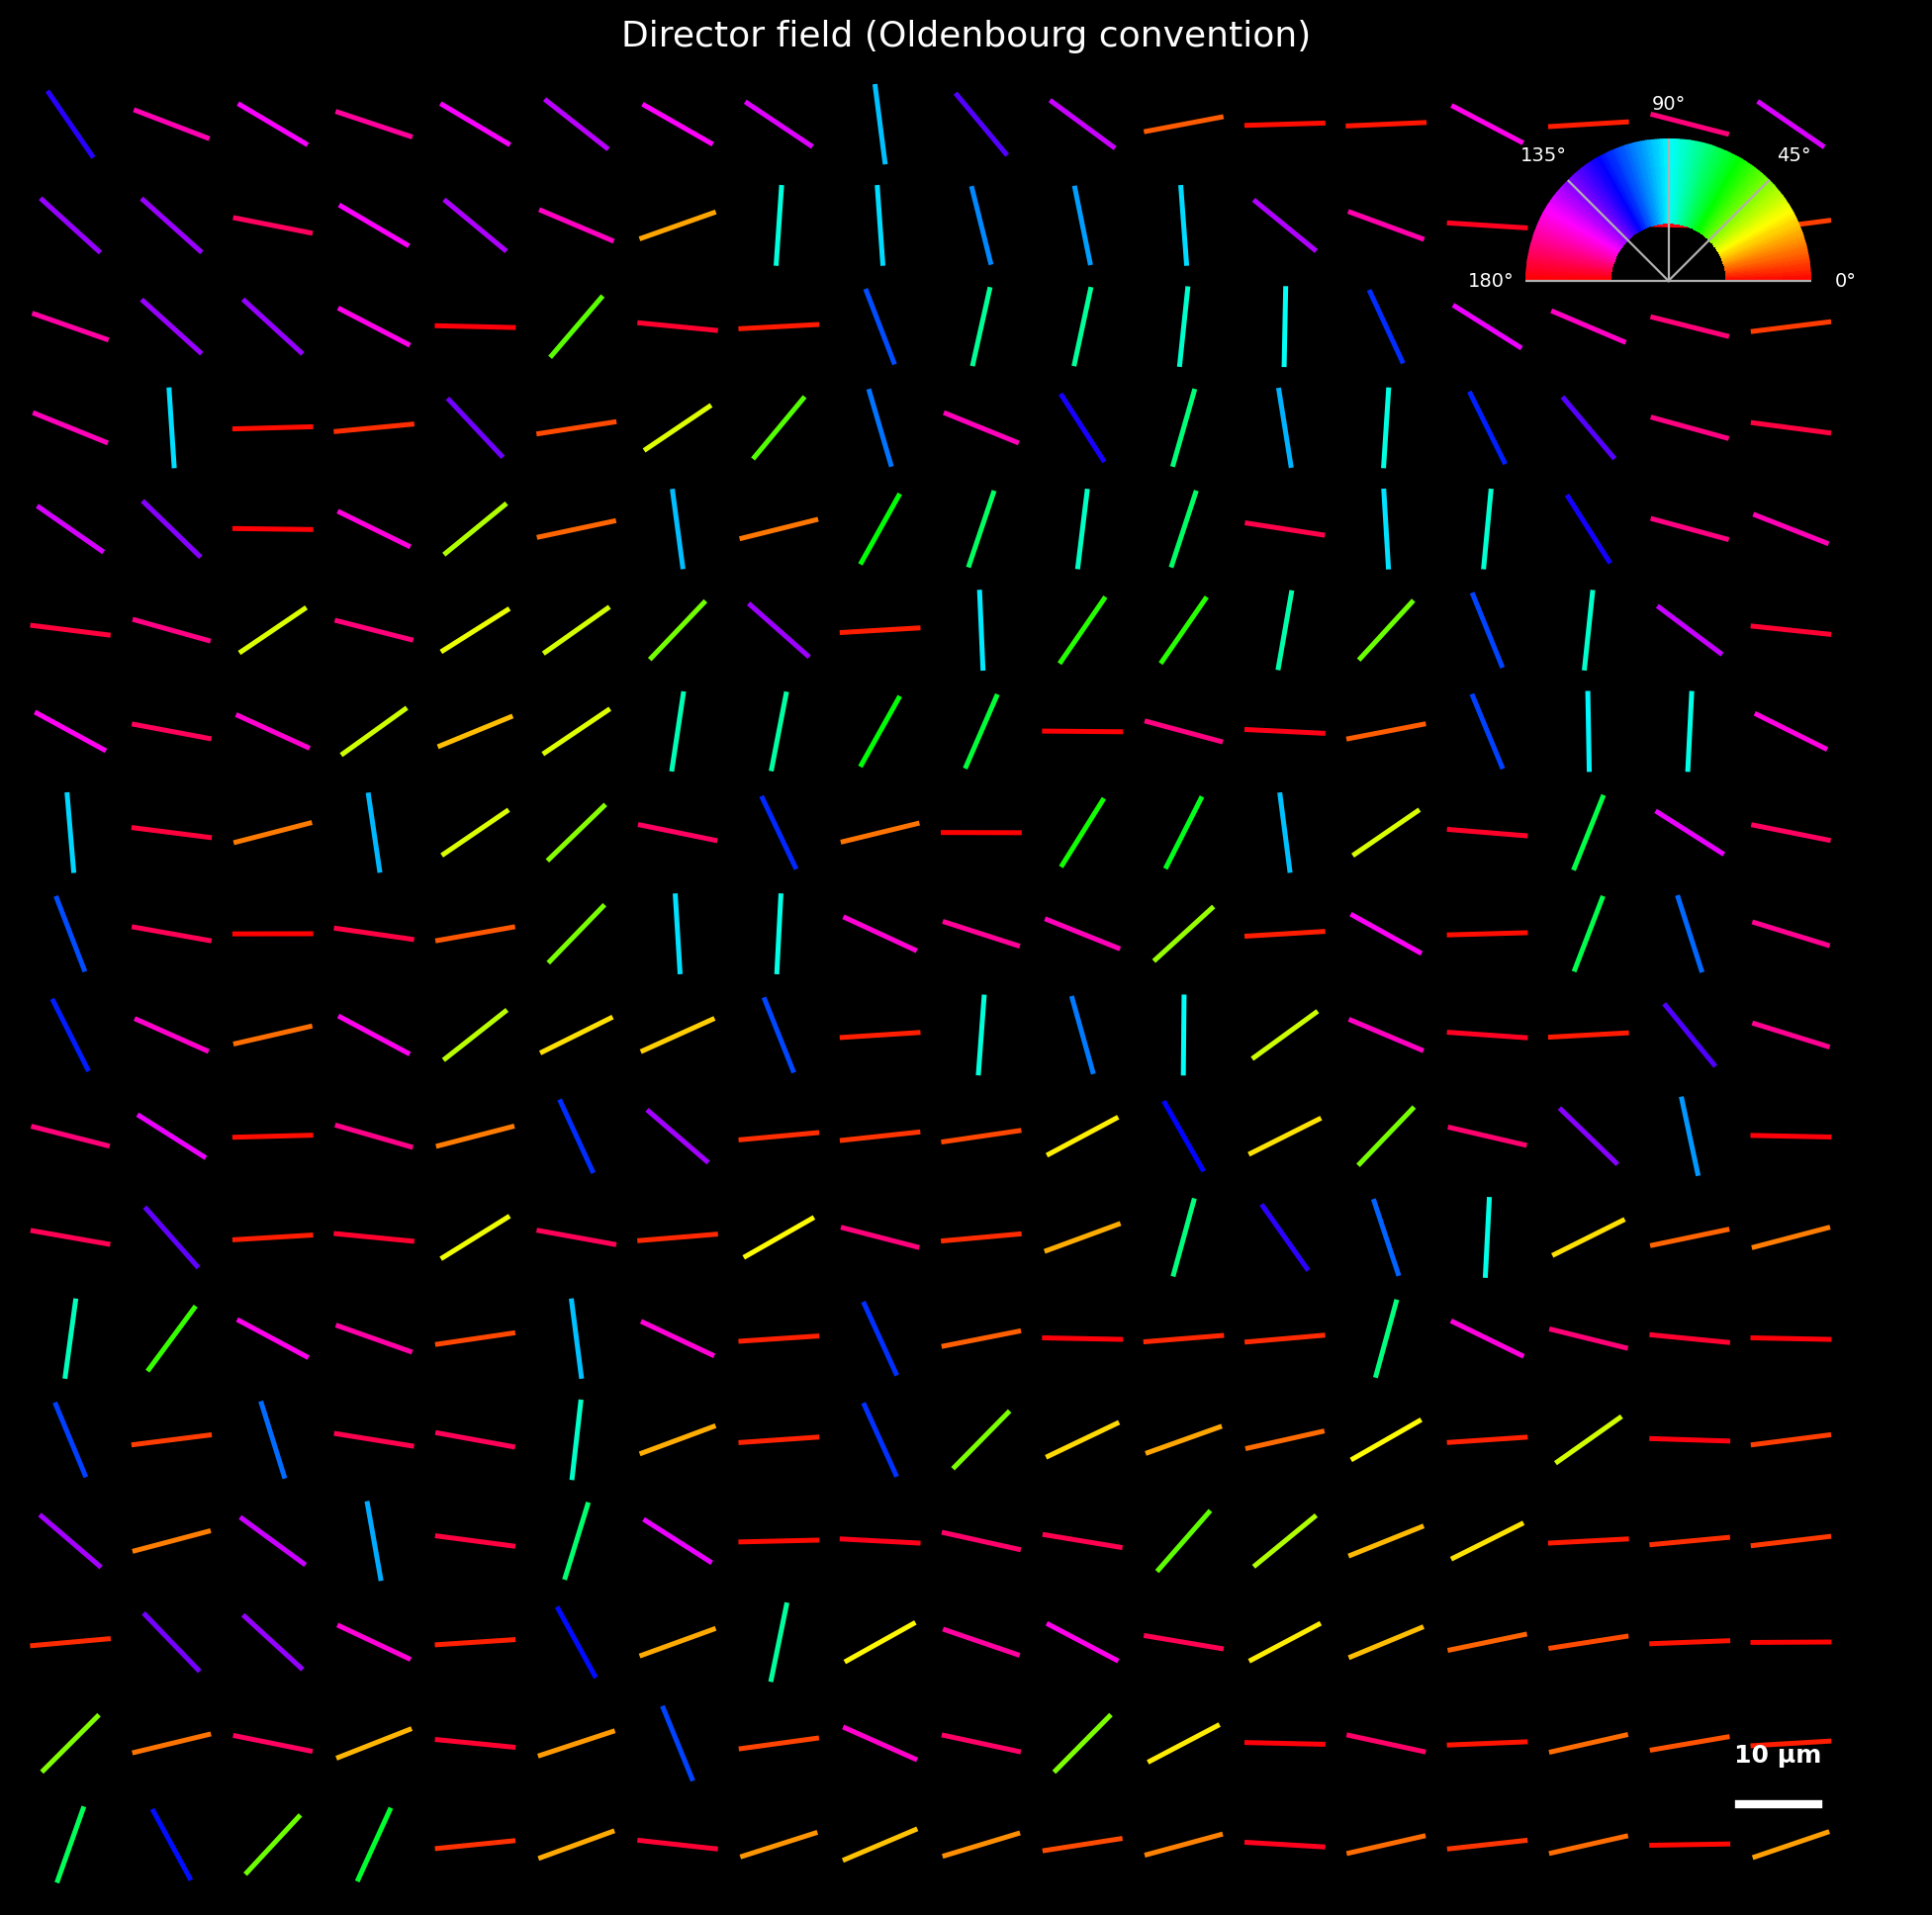
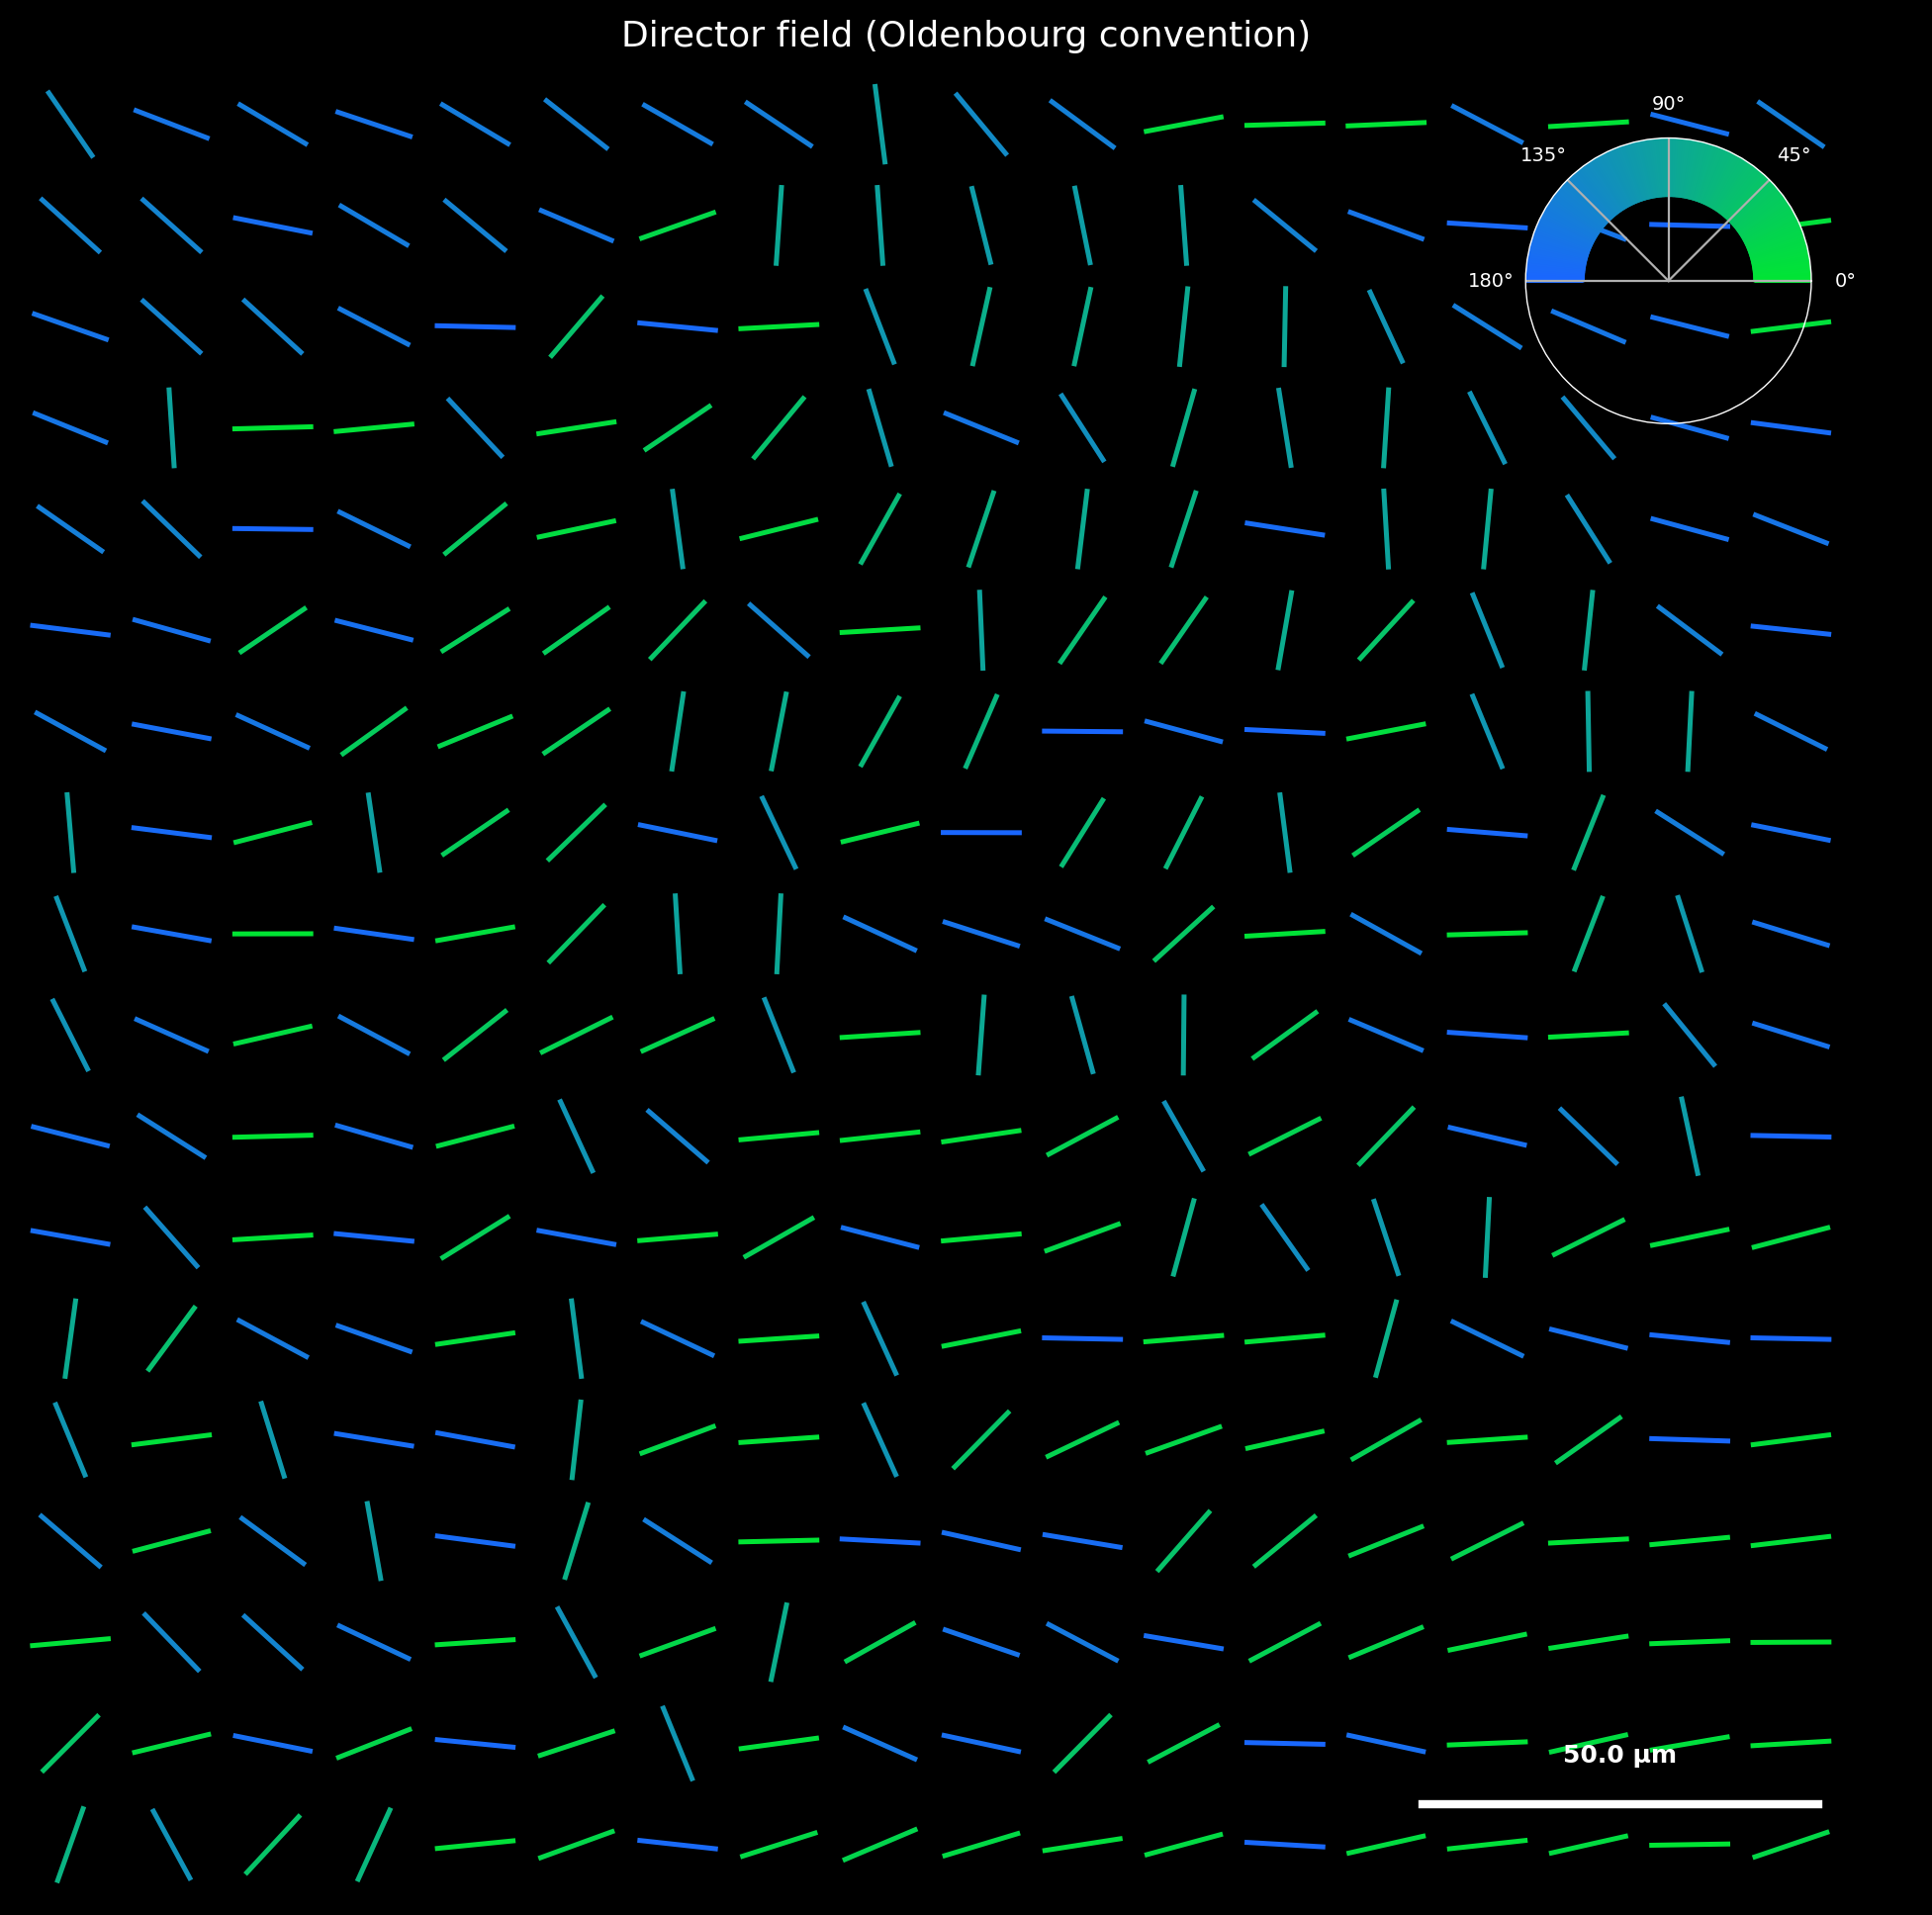
Add green-blue colormap and configurable scale bar (default 50 um)
https://claude.ai/code/session_018H6gMb9mV7iviRhLPu4v2N

diff --git a/plot_director_field.py b/plot_director_field.py
@@ -132,11 +132,11 @@ def segment_region(img_for_seg, sigma=20, close_r=25, min_area=5000,
 # ========================== DIRECTOR FIELD PLOT ===============================
 
 def plot_director_field(phi_deg, mask=None, retardance=None,
-                        spacing=15, line_length=None, px_per_um=6.25,
+                        spacing=15, line_length=None, px_per_um=3.125,
                         scale_by_ret=True, color_mode='orientation',
                         background='retardance', linewidth=0.8,
                         title=None, out_path=None, dpi=200,
-                        fig_ax=None):
+                        fig_ax=None, scale_bar_um=50):
     """Plot nematic director field as headless line segments.
 
     Parameters
@@ -231,6 +231,11 @@ def plot_director_field(phi_deg, mask=None, retardance=None,
         hue = phi_at_pts / 180.0
         hsv = np.column_stack([hue, np.ones_like(hue), np.ones_like(hue)])
         colors = mcolors.hsv_to_rgb(hsv)
+    elif color_mode == 'green_blue':
+        t = phi_at_pts / 180.0
+        green = np.array([0.0, 0.9, 0.2])
+        blue  = np.array([0.1, 0.4, 1.0])
+        colors = np.outer(1 - t, green) + np.outer(t, blue)
     elif color_mode == 'retardance' and retardance is not None:
         ret_at_pts = retardance[pts_y, pts_x].astype(float)
         ret_max = max(np.nanmax(ret_at_pts), 1e-10)
@@ -270,9 +275,9 @@ def plot_director_field(phi_deg, mask=None, retardance=None,
     lc = LineCollection(segments, colors=colors, linewidths=linewidth)
     ax.add_collection(lc)
 
-    # --- Scale bar (bottom-right, 10 um) ---
+    # --- Scale bar (bottom-right) ---
     um_per_px = 1.0 / px_per_um
-    bar_um = 10
+    bar_um = scale_bar_um
     bar_px = bar_um * px_per_um
     bar_y = H - 0.05 * H
     bar_x0 = W - 0.05 * W - bar_px
@@ -282,8 +287,41 @@ def plot_director_field(phi_deg, mask=None, retardance=None,
             f'{bar_um} µm', color='white', ha='center', va='bottom',
             fontsize=9, fontweight='bold')
 
-    # --- Orientation color legend (small wheel, top-right) ---
-    if color_mode == 'orientation':
+    # --- Color legend (top-right) ---
+    if color_mode == 'green_blue':
+        ax_inset = fig.add_axes([0.78, 0.78, 0.15, 0.15], polar=True)
+        theta_wheel = np.linspace(0, np.pi, 181)
+        r_wheel = np.linspace(0.6, 1.0, 2)
+        Theta, R = np.meshgrid(theta_wheel, r_wheel)
+        t_norm = Theta / np.pi
+        green = np.array([0.0, 0.9, 0.2])
+        blue  = np.array([0.1, 0.4, 1.0])
+        C_rgb = np.zeros((*t_norm.shape, 3))
+        for ch in range(3):
+            C_rgb[:, :, ch] = (1 - t_norm) * green[ch] + t_norm * blue[ch]
+        ax_inset.pcolormesh(Theta, R, t_norm, color=C_rgb.reshape(-1, 3),
+                            shading='auto')
+        # Manual colored wedges since pcolormesh color= isn't supported
+        ax_inset.cla()
+        for i in range(180):
+            th0 = np.deg2rad(i)
+            th1 = np.deg2rad(i + 1)
+            t_val = i / 180.0
+            c = (1 - t_val) * green + t_val * blue
+            ax_inset.fill_between([th0, th1], 0.6, 1.0, color=c)
+        ax_inset.set_ylim(0, 1)
+        ax_inset.set_theta_zero_location('E')
+        ax_inset.set_theta_direction(1)
+        ax_inset.set_xticks([0, np.pi/4, np.pi/2, 3*np.pi/4, np.pi])
+        ax_inset.set_xticklabels(['0°', '45°', '90°', '135°', '180°'],
+                                  fontsize=7, color='white')
+        ax_inset.set_yticks([])
+        ax_inset.set_facecolor('none')
+        for spine in ax_inset.spines.values():
+            spine.set_edgecolor('white')
+            spine.set_linewidth(0.5)
+        ax_inset.tick_params(colors='white', pad=2)
+    elif color_mode == 'orientation':
         ax_inset = fig.add_axes([0.78, 0.78, 0.15, 0.15], polar=True)
         theta_wheel = np.linspace(0, np.pi, 181)
         r_wheel = np.linspace(0.6, 1.0, 2)
@@ -374,13 +412,15 @@ def main():
     parser.add_argument('--no-scale', action='store_true',
                         help='Do not scale line length by retardance')
     parser.add_argument('--color', '-c', default='orientation',
-                        choices=['orientation', 'retardance', 'white', 'black'],
+                        choices=['orientation', 'green_blue', 'retardance', 'white', 'black'],
                         help='Director color mode (default: orientation)')
     parser.add_argument('--background', '-bg', default='none',
                         choices=['retardance', 'orientation', 'mask', 'none'],
                         help='Background image (default: none)')
     parser.add_argument('--output', '-o', default=None,
                         help='Output path (default: director_field.png in input dir)')
+    parser.add_argument('--scale-bar', type=float, default=50,
+                        help='Scale bar length in microns (default: 50)')
     parser.add_argument('--dpi', type=int, default=200)
     parser.add_argument('--title', default=None)
 
@@ -465,6 +505,7 @@ def main():
         title=args.title,
         out_path=out_path,
         dpi=args.dpi,
+        scale_bar_um=args.scale_bar,
     )
 
     n_pts = len(ax.collections[0].get_paths()) if ax.collections else 0